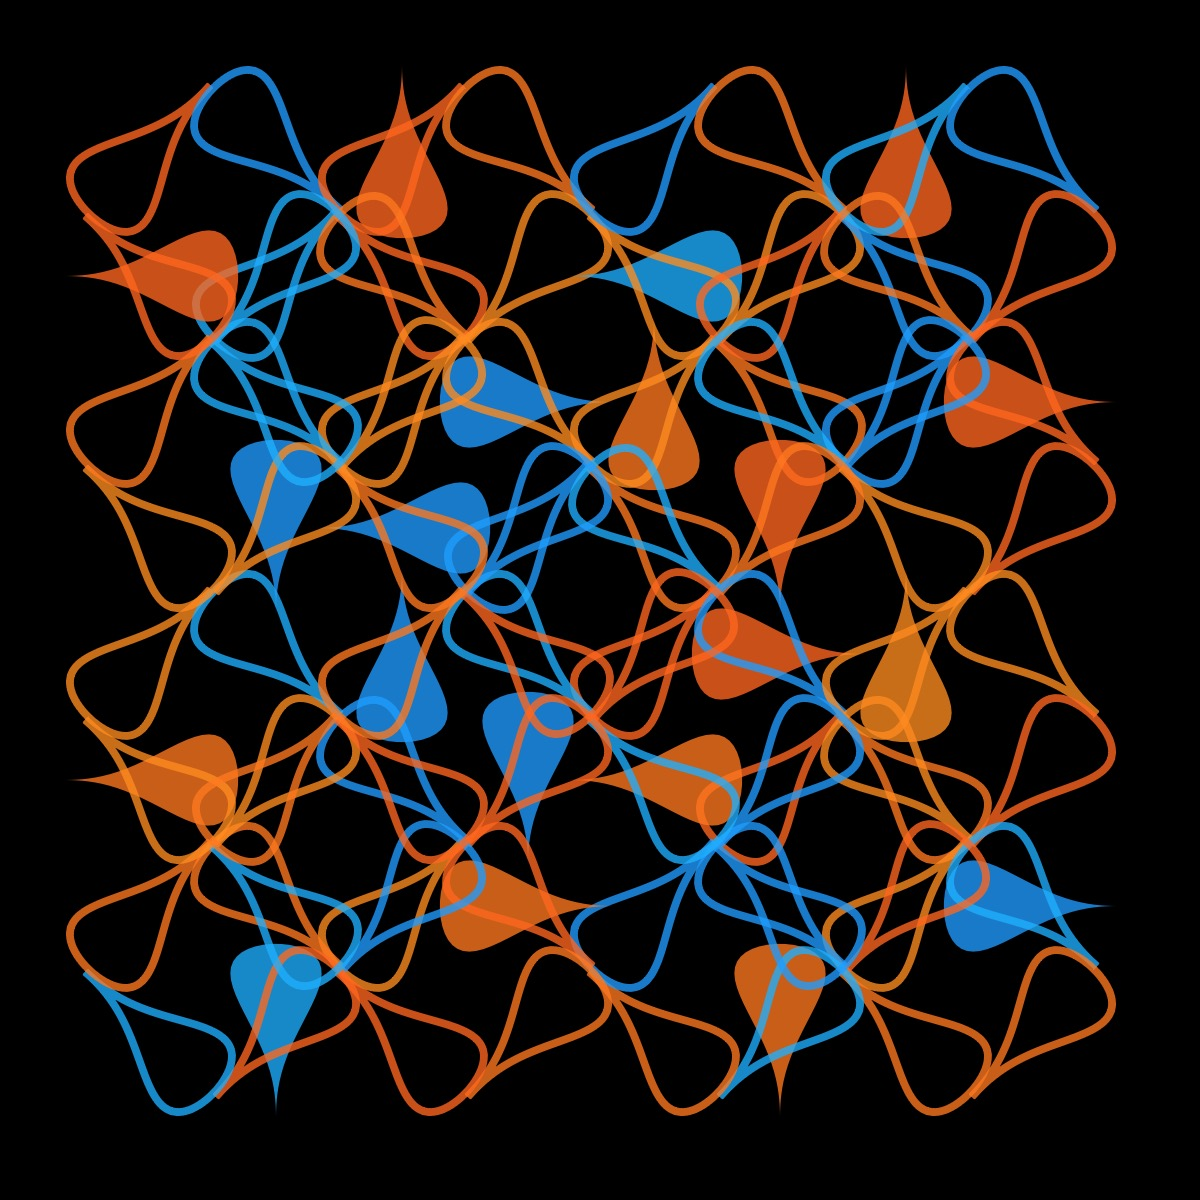
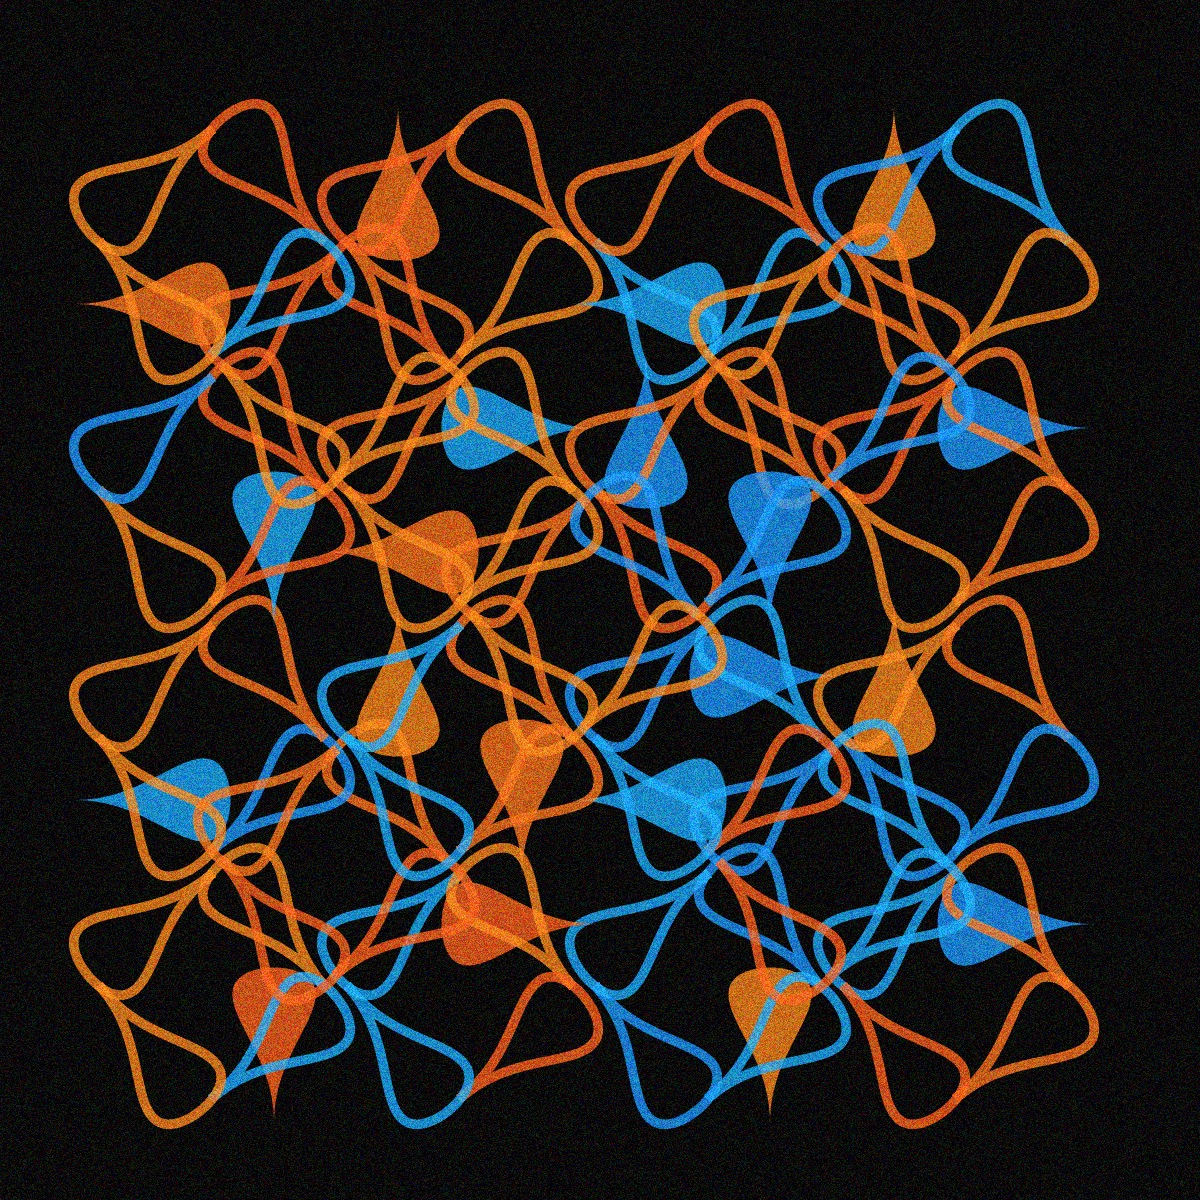
add tiles example

diff --git a/Updated_Lsystem/sketch.js b/Updated_Lsystem/sketch.js
@@ -345,7 +345,8 @@ function addPalettes(posx, posy, choice) {
     "primary",
     "sunny",
     "orange_green",
-    "picture",
+    "navy",
+    //"picture",
   ];
 
   paletteDropdown = createSelect();
@@ -464,10 +465,14 @@ function selectPalette(selected) {
       url =
         "https://supercolorpalette.com/?scp=G0-hsl-BF1FFF-9C24FF-7B29FF-5B2EFF-3D33FF-384FFF-3D74FF-4297FF-47B9FF-4DD8FF";
       break;
-    case "picture":
+    case "navy":
       url =
-        "https://supercolorpalette.com/?scp=G0-hsl-9ca227-af5125-98b7c5-eae0c1-765938";
+        "https://supercolorpalette.com/?scp=G0-hsl-240184-1C0193-1101A2-0401B2-010EC1-0120D0-0135DF-014CEF";
       break;
+    // case "picture":
+    //   url =
+    //     "https://supercolorpalette.com/?scp=G0-hsl-9ca227-af5125-98b7c5-eae0c1-765938";
+    //   break;
   }
 }
 
@@ -632,6 +637,7 @@ function addRuleDropdown(posx, posy, choice) {
     "skierpinski_carpet",
     "sticks",
     "tiles",
+    "tiles2",
     "torn_square",
     "tree",
     "triangle",
@@ -792,6 +798,9 @@ function pickRule(currentFractal) {
       currentFractal = lsystem.sticks;
       break;
     case "tiles":
+      currentFractal = lsystem.tiles;
+      break;
+    case "tiles2":
       currentFractal = lsystem.tiles;
       break;
     case "tree":

diff --git a/Rule-set-examples/tiles.md b/Rule-set-examples/tiles.md
@@ -1,0 +1,61 @@
+# Tiles Ruleset
+
+<p align="center"><img src="../assets/rule-set-images/tiles.jpg" alt="Tiles" width="300px"></p>
+
+Ruleset
+
+```JSON
+  "tiles": {
+    "axiom": "F+F+F+F",
+    "rules": {
+      "F": "FF+F-F+F+FF"
+    },
+    "angle": "90",
+    "length_factor": "1",
+    "max_Level": "3",
+    "author": "Paul Bourke"
+}
+```
+
+With some tiles filled with a color:
+
+```JSON
+  "tiles2": {
+    "axiom": "F+F+F+F",
+    "rules": {
+      "F": "{FF}+F-F+F+FF"
+    },
+    "angle": "90",
+    "length_factor": "1",
+    "max_Level": "3",
+    "author": "Paul Bourke"
+}
+```
+
+## 🌄 Gallery
+
+<!-- IMAGE-LIST:START - Do not remove or modify this section -->
+<!-- prettier-ignore-start -->
+<!-- markdownlint-disable -->
+<table>
+  <tbody>
+    <tr>
+     <td align="center"><a href=""> <img class="img" src="../assets/Ruleset-shape-examples/tiles-astroid.jpg" alt="" style="vertical-align:top;" width="500" /><br /><sub><b><br/></b></sub></a></td>
+     <td align="center"><a href=""> <img class="img" src="../assets/Ruleset-shape-examples/tiles-kiss.jpg" alt="" style=" display: block;
+    margin-left: auto;
+    margin-right: auto;" width="500" /><br /><sub><b><br/></b></sub></a></td>
+    </tr>
+    <tr>
+     <td align="center"><a href=""> <img class="img" src="../assets/Ruleset-shape-examples/tiles-tear.jpg" alt="" style="vertical-align:top;" width="500" /><br /><sub><b><br/></b></sub></a></td>
+     <td align="center"><a href=""> <img class="img" src="../assets/Ruleset-shape-examples/tiles-quadrifolium.jpg" alt="" style=" display: block;
+    margin-left: auto;
+    margin-right: auto;" width="500" /><br /><sub><b><br/></b></sub></a></td>
+</tr>
+ 
+ </tbody>
+</table>
+
+<!-- markdownlint-restore -->
+<!-- prettier-ignore-end -->
+
+<!-- IMAGE-LIST:END -->
